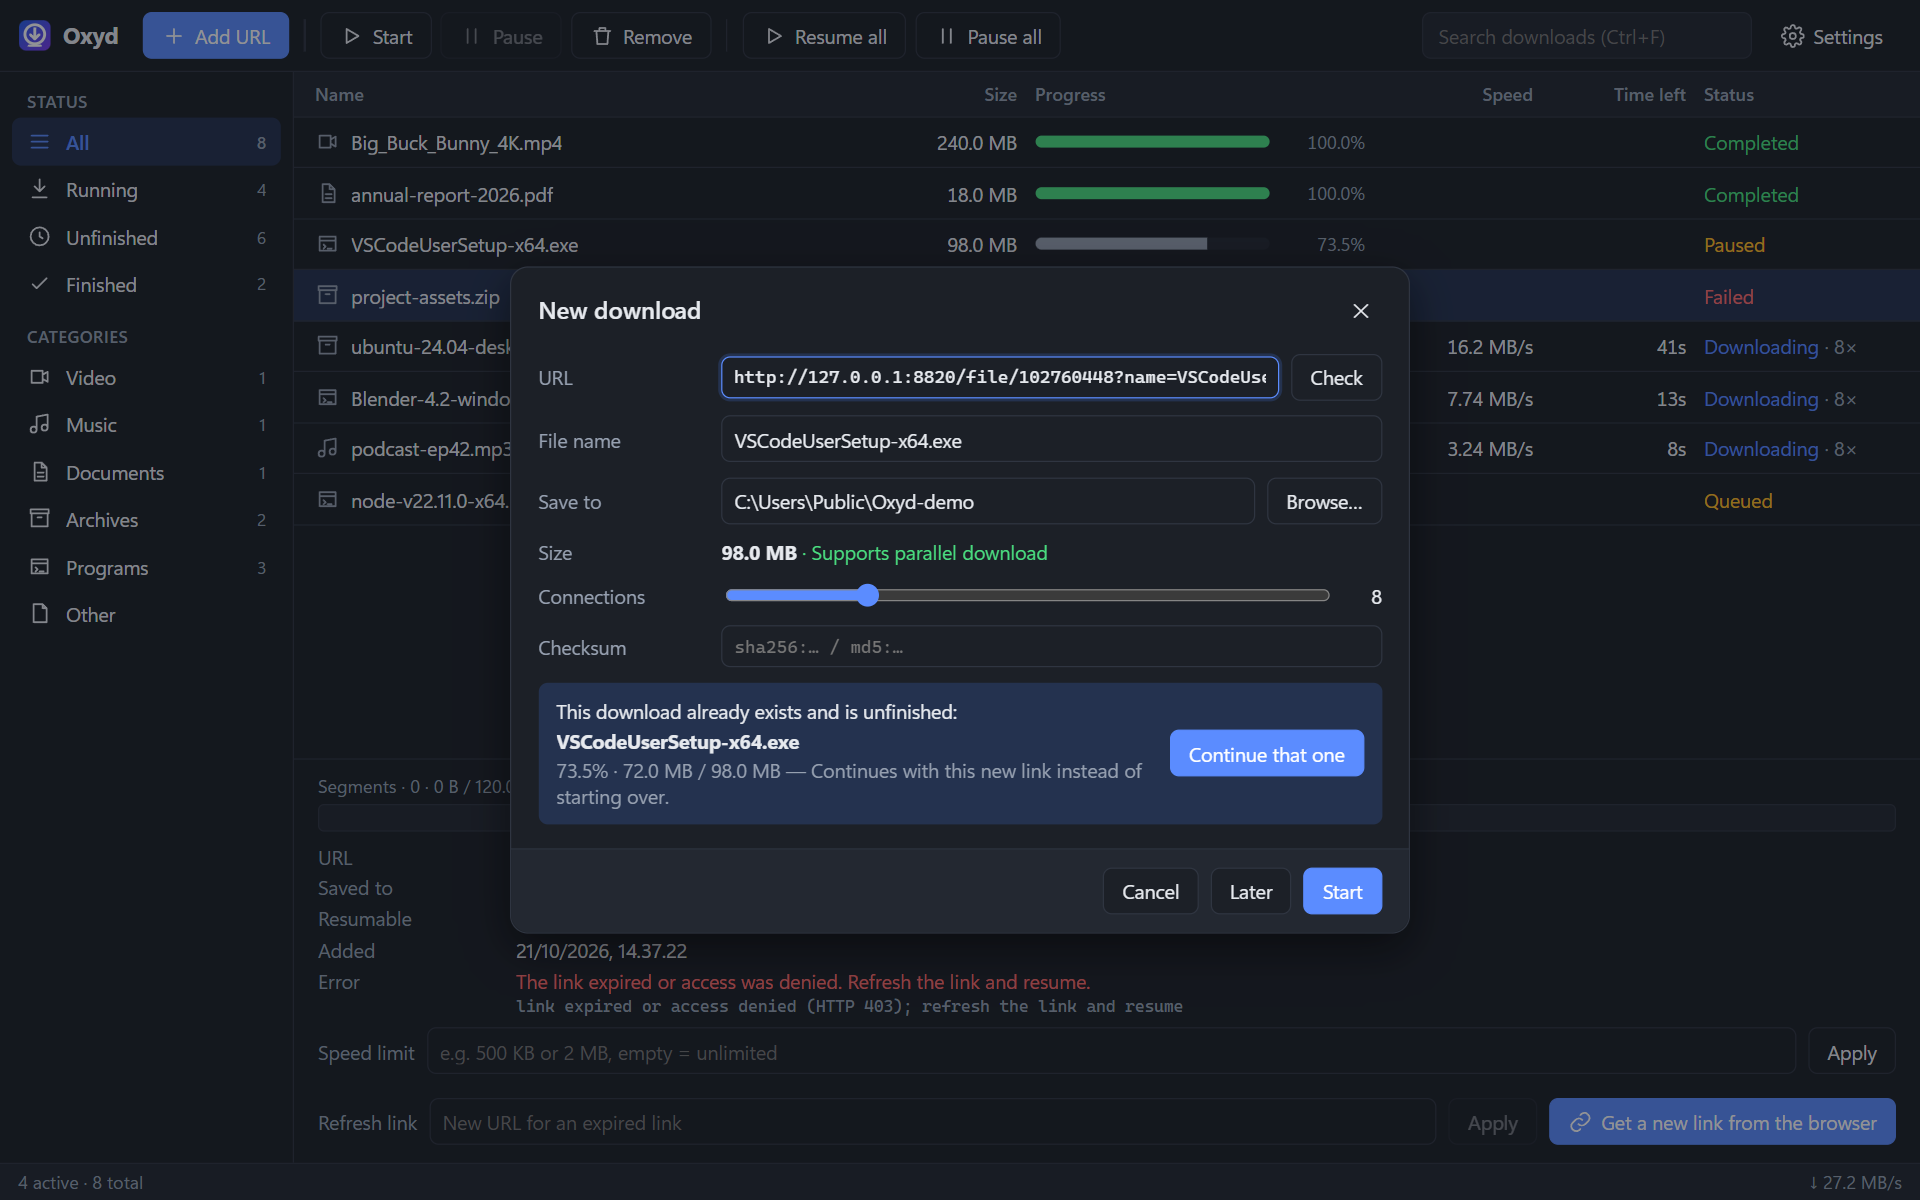
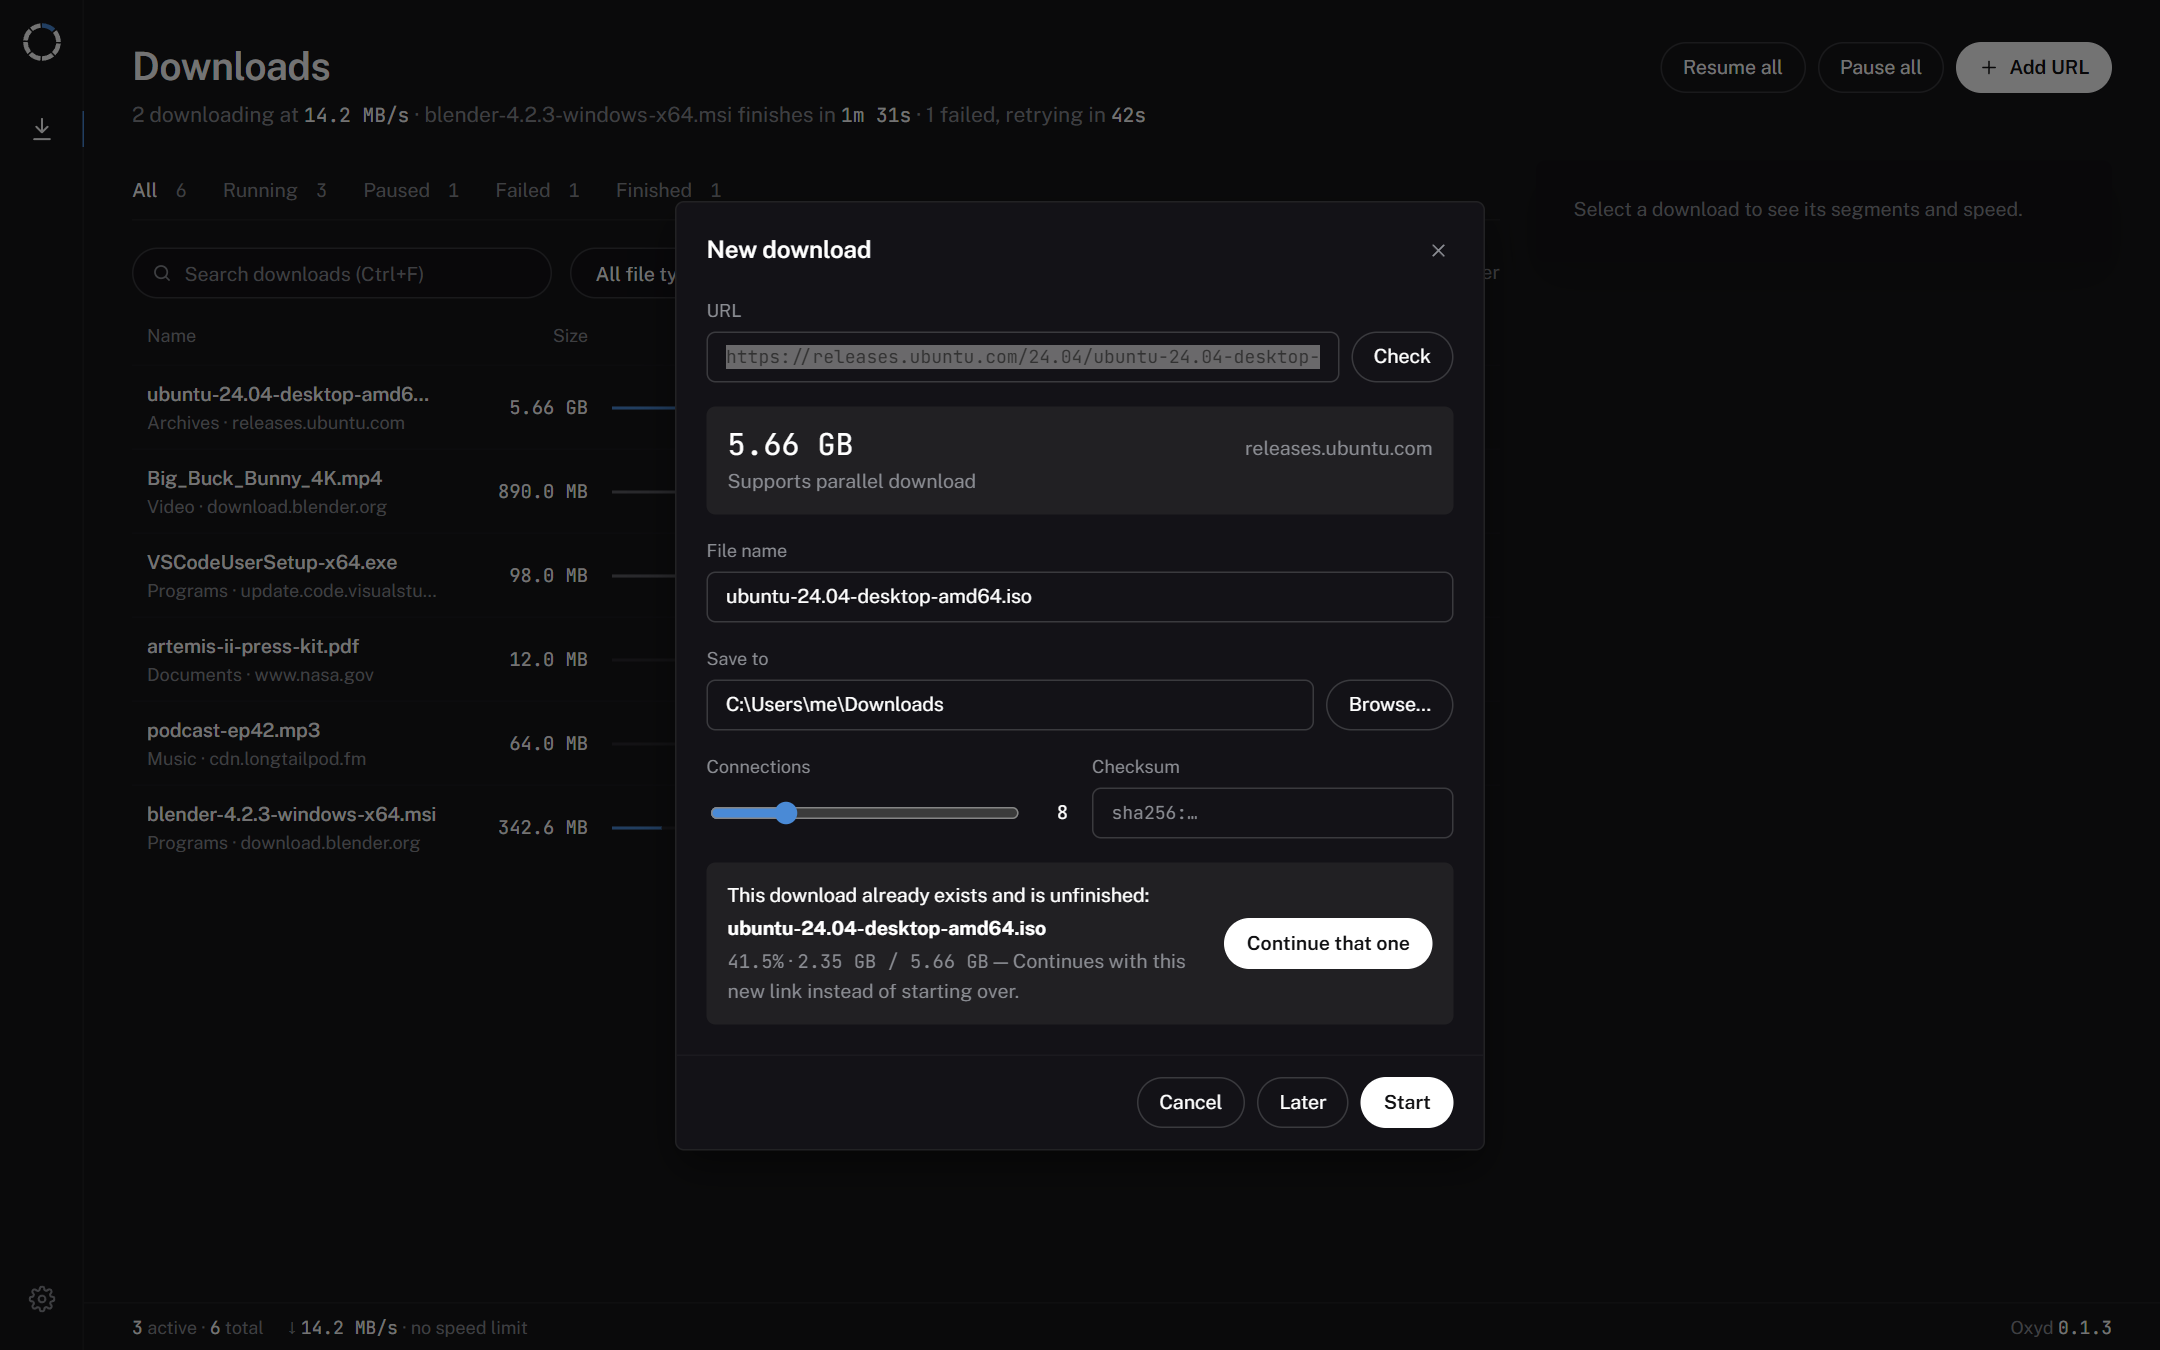
docs: screenshots of the redesigned app
The README images now show the new layout in English. The dev mock gets
real download hosts, a second running download with a wandering speed,
the current version and a ?lang=en switch so the shots can be retaken.

diff --git a/app/src/lib/mock.ts b/app/src/lib/mock.ts
@@ -52,6 +52,7 @@ const downloads: DownloadInfo[] = [
   dl({
     id: "a",
     filename: "ubuntu-24.04-desktop-amd64.iso",
+    url: "https://releases.ubuntu.com/24.04/ubuntu-24.04-desktop-amd64.iso",
     category: "archive",
     totalSize: 5800 * MB,
     downloaded: 2400 * MB,
@@ -65,6 +66,7 @@ const downloads: DownloadInfo[] = [
   dl({
     id: "b",
     filename: "Big_Buck_Bunny_4K.mp4",
+    url: "https://download.blender.org/demo/movies/BBB/Big_Buck_Bunny_4K.mp4",
     category: "video",
     totalSize: 890 * MB,
     downloaded: 890 * MB,
@@ -75,6 +77,7 @@ const downloads: DownloadInfo[] = [
   dl({
     id: "c",
     filename: "VSCodeUserSetup-x64.exe",
+    url: "https://update.code.visualstudio.com/latest/win32-x64-user/stable",
     category: "program",
     totalSize: 98 * MB,
     downloaded: 41 * MB,
@@ -84,16 +87,38 @@ const downloads: DownloadInfo[] = [
   }),
   dl({
     id: "d",
-    filename: "laporan-tahunan-2026.pdf",
+    filename: "artemis-ii-press-kit.pdf",
+    url: "https://www.nasa.gov/wp-content/uploads/artemis-ii-press-kit.pdf",
     category: "document",
     totalSize: 12 * MB,
     status: "failed",
-    error: "network error: error sending request for url (https://example.com/files/laporan.pdf)",
+    error: "network error: error sending request for url (https://www.nasa.gov/wp-content/uploads/artemis-ii-press-kit.pdf)",
     errorCode: "network",
     retryAt: now + 45,
     position: 4,
   }),
-  dl({ id: "e", filename: "podcast-ep42.mp3", category: "music", totalSize: 64 * MB, position: 5 }),
+  dl({
+    id: "e",
+    filename: "podcast-ep42.mp3",
+    url: "https://cdn.longtailpod.fm/episodes/podcast-ep42.mp3",
+    category: "music",
+    totalSize: 64 * MB,
+    position: 5,
+  }),
+  dl({
+    id: "f",
+    filename: "blender-4.2.3-windows-x64.msi",
+    url: "https://download.blender.org/release/Blender4.2/blender-4.2.3-windows-x64.msi",
+    category: "program",
+    totalSize: 342.6 * MB,
+    downloaded: 98.3 * MB,
+    status: "downloading",
+    speed: 2.6 * MB,
+    eta: 94,
+    activeConnections: 4,
+    position: 6,
+    segments: segs(342.6 * MB, 4, [0.4, 0.3, 0.25, 0.2]),
+  }),
 ];
 
 let settings: Settings = {
@@ -109,7 +134,8 @@ let settings: Settings = {
   clipboardMonitor: false,
   proxy: null,
   theme: "system",
-  language: "id",
+  // `?lang=en` shows the English interface (used for the README screenshots).
+  language: new URLSearchParams(location.search).get("lang") === "en" ? "en" : "id",
   schedule: { enabled: false, start: null, stop: null },
   afterQueue: "nothing",
 };
@@ -128,7 +154,7 @@ export function installMock() {
           settings = a.settings as Settings;
           return settings;
         case "app_info":
-          return { version: "0.1.0-mock", dataDir: "C:\\Users\\me\\AppData\\Local\\Oxyd" };
+          return { version: "0.1.3", dataDir: "C:\\Users\\me\\AppData\\Local\\Oxyd" };
         case "pending_downloads":
           return [];
         case "refresh_target":
@@ -142,7 +168,7 @@ export function installMock() {
             (d) => d.filename.toLowerCase() === String(a.filename).toLowerCase() && d.status !== "completed",
           ) ?? null;
         case "clipboard_link":
-          return "https://releases.ubuntu.com/24.04/ubuntu-24.04-desktop-amd64.iso";
+          return downloads[0].url;
         case "suggest_dir":
           return settings.downloadDir;
         case "path_exists":
@@ -150,7 +176,8 @@ export function installMock() {
         case "probe_url":
           return {
             finalUrl: a.url,
-            size: 734 * MB,
+            // A link to a file already in the list reports that file's size.
+            size: downloads.find((d) => d.url === a.url)?.totalSize ?? 734 * MB,
             acceptRanges: true,
             etag: '"x"',
             lastModified: null,
@@ -163,20 +190,25 @@ export function installMock() {
     },
     { shouldMockEvents: true },
   );
-  // Animate the running download.
+  // Animate the running downloads; their speed wanders around a base like a real line.
+  const running = downloads.filter((d) => d.status === "downloading");
+  const base = new Map(running.map((d) => [d.id, d.speed]));
   setInterval(() => {
-    const d = downloads[0];
-    d.downloaded = Math.min(d.totalSize!, d.downloaded + d.speed / 4);
-    d.segments.forEach((s) => (s.downloaded = Math.min(s.end - s.start + 1, s.downloaded + d.speed / 32)));
-    void emit("oxyd://event", {
-      type: "progress",
-      id: d.id,
-      downloaded: d.downloaded,
-      total: d.totalSize,
-      speed: d.speed,
-      eta: Math.round((d.totalSize! - d.downloaded) / d.speed),
-      activeConnections: 8,
-      segments: d.segments,
-    });
+    for (const d of running) {
+      d.speed = base.get(d.id)! * (0.88 + Math.random() * 0.24);
+      d.downloaded = Math.min(d.totalSize!, d.downloaded + d.speed / 4);
+      const n = d.segments.length;
+      d.segments.forEach((s) => (s.downloaded = Math.min(s.end - s.start + 1, s.downloaded + d.speed / 4 / n)));
+      void emit("oxyd://event", {
+        type: "progress",
+        id: d.id,
+        downloaded: d.downloaded,
+        total: d.totalSize,
+        speed: d.speed,
+        eta: Math.round((d.totalSize! - d.downloaded) / d.speed),
+        activeConnections: d.activeConnections,
+        segments: d.segments,
+      });
+    }
   }, 250);
 }

diff --git a/README.md b/README.md
@@ -10,7 +10,7 @@ browsers, and lets you continue a download from where it stopped even after its 
 expired.
 
 <p align="center">
-  <img src="docs/images/main-dark.png" alt="Oxyd main window, dark theme" width="900">
+  <img src="docs/images/main-dark.png" alt="Oxyd main window, dark theme: download list with the segment map and speed of the selected download" width="900">
 </p>
 
 > The screenshots show sample downloads served by the local test server in this repository.
@@ -149,7 +149,7 @@ as `file (1)`. You can also paste a new URL by hand in the detail panel.
 ### Settings
 
 <p align="center">
-  <img src="docs/images/settings-dark.png" alt="Settings dialog" width="800">
+  <img src="docs/images/settings-dark.png" alt="Settings page" width="800">
 </p>
 
 | Tab | What you can set |
